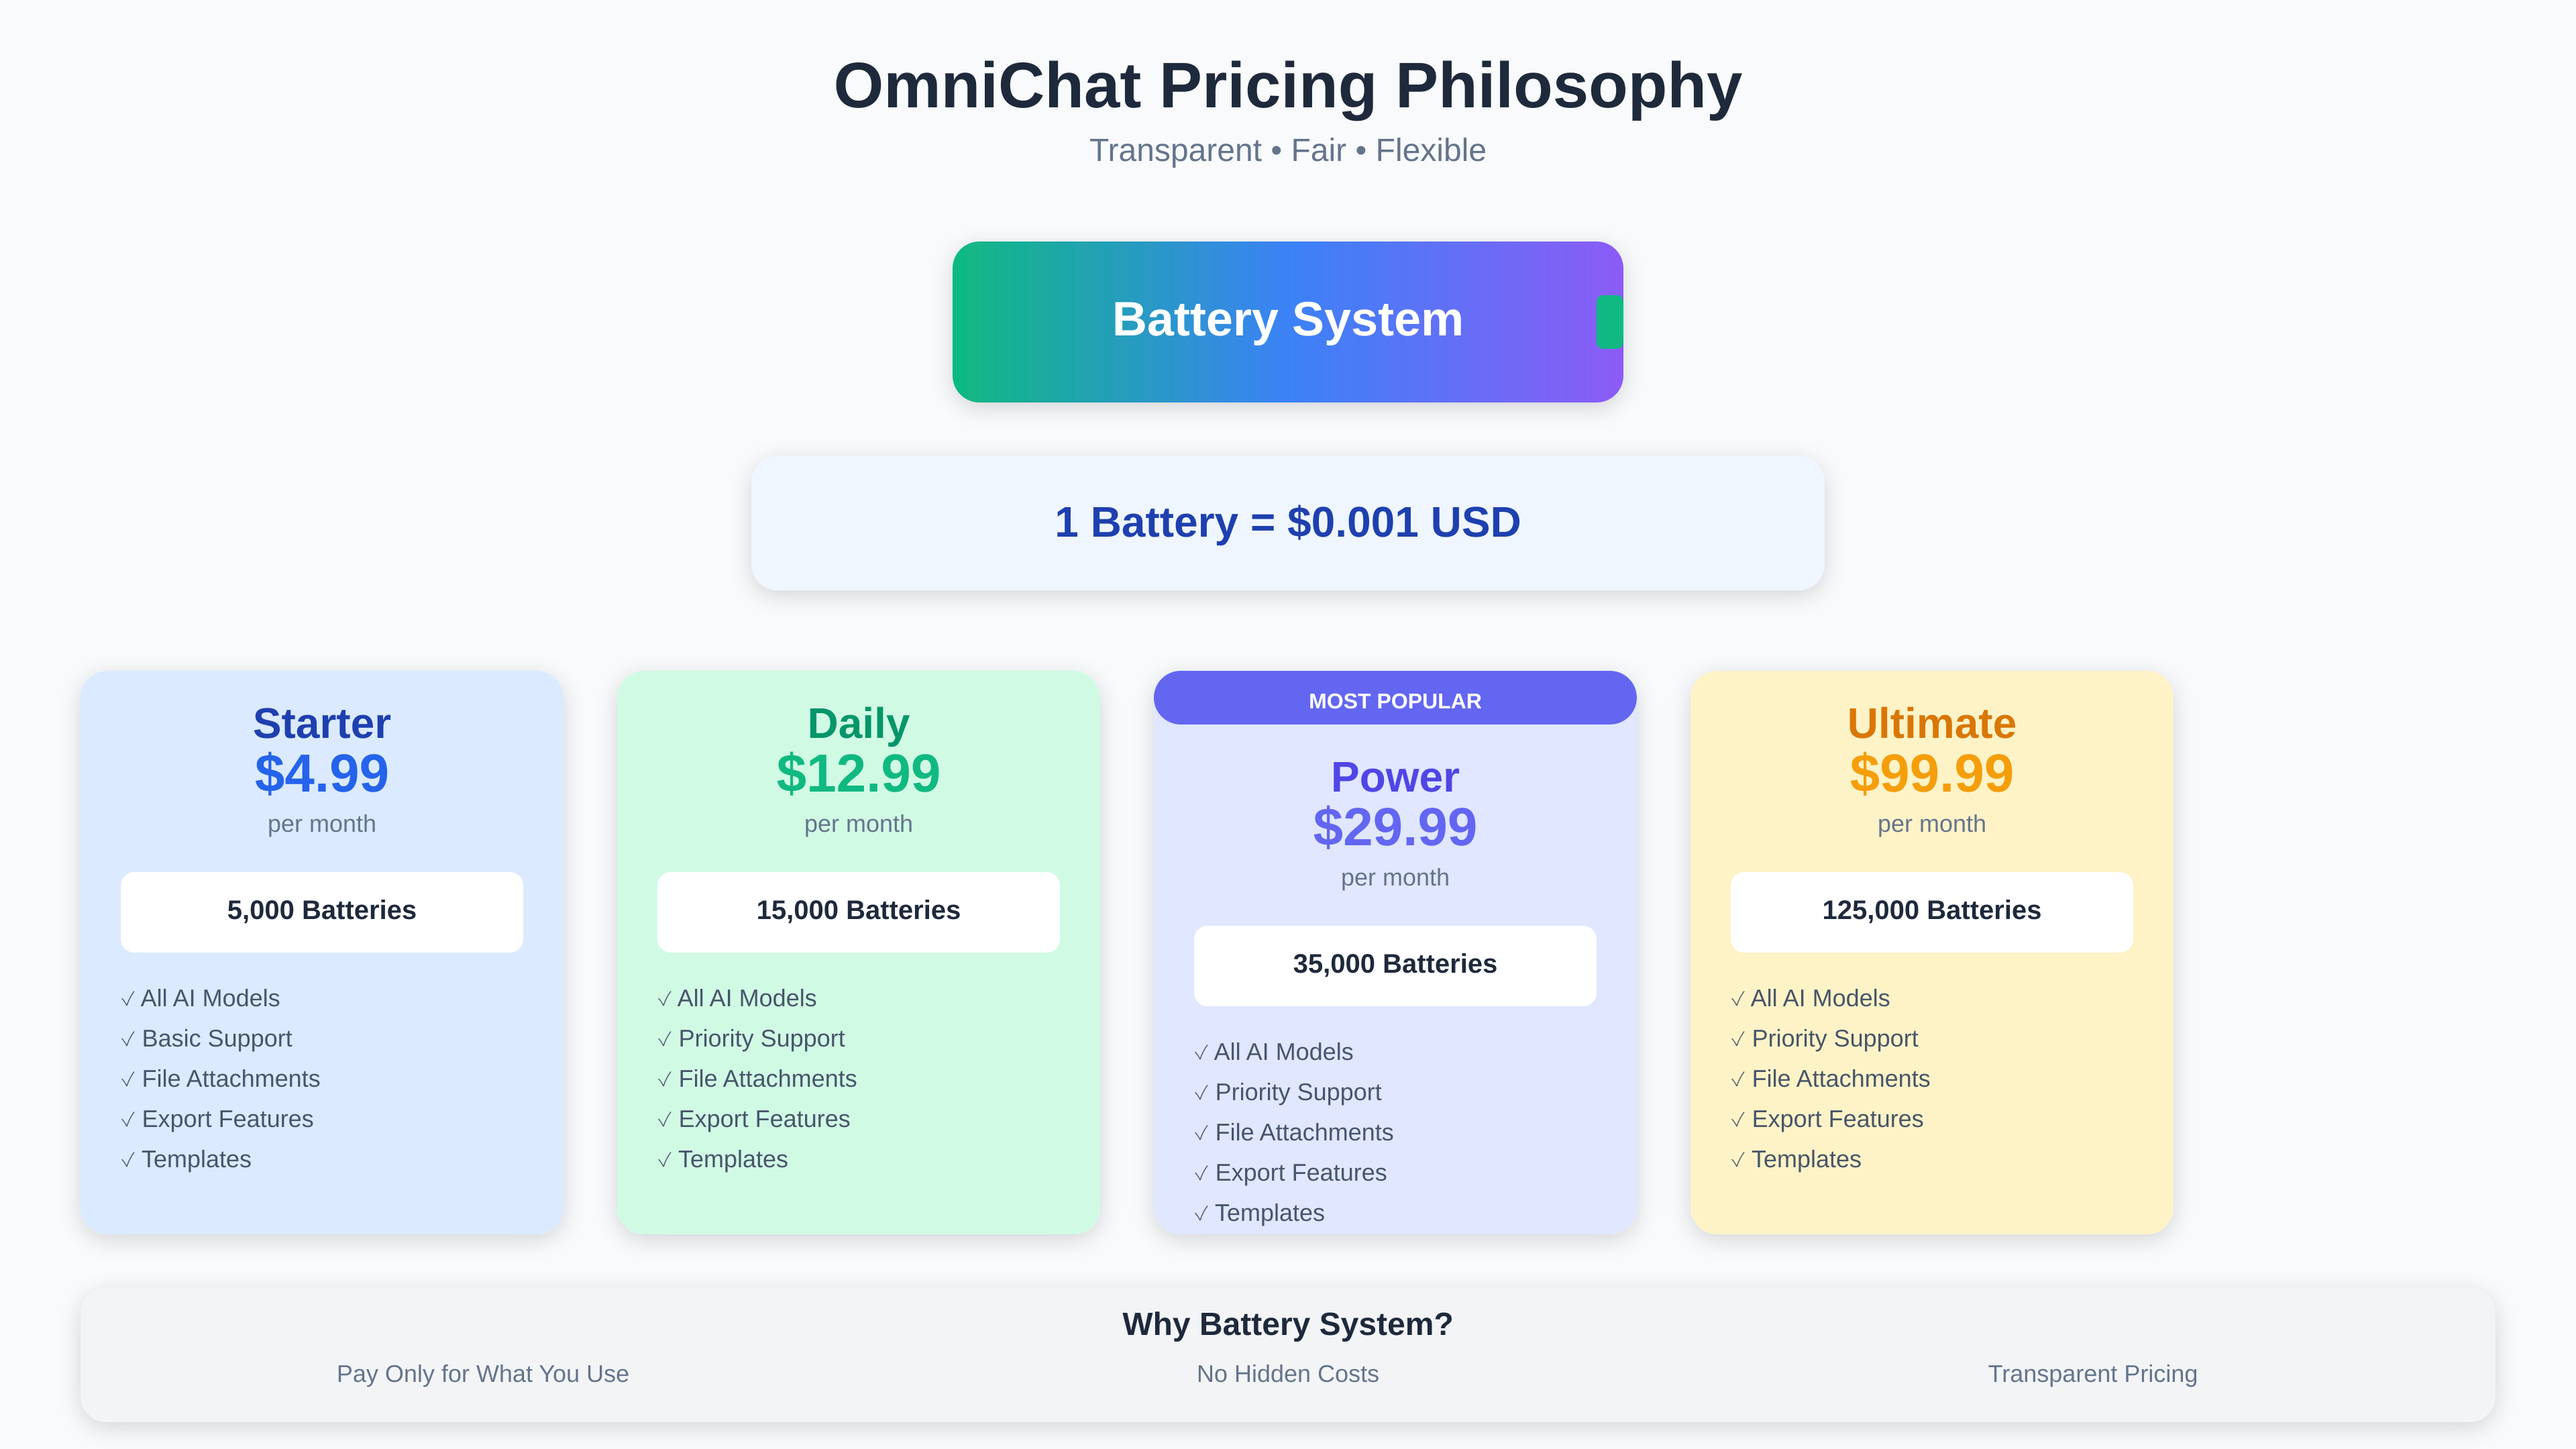
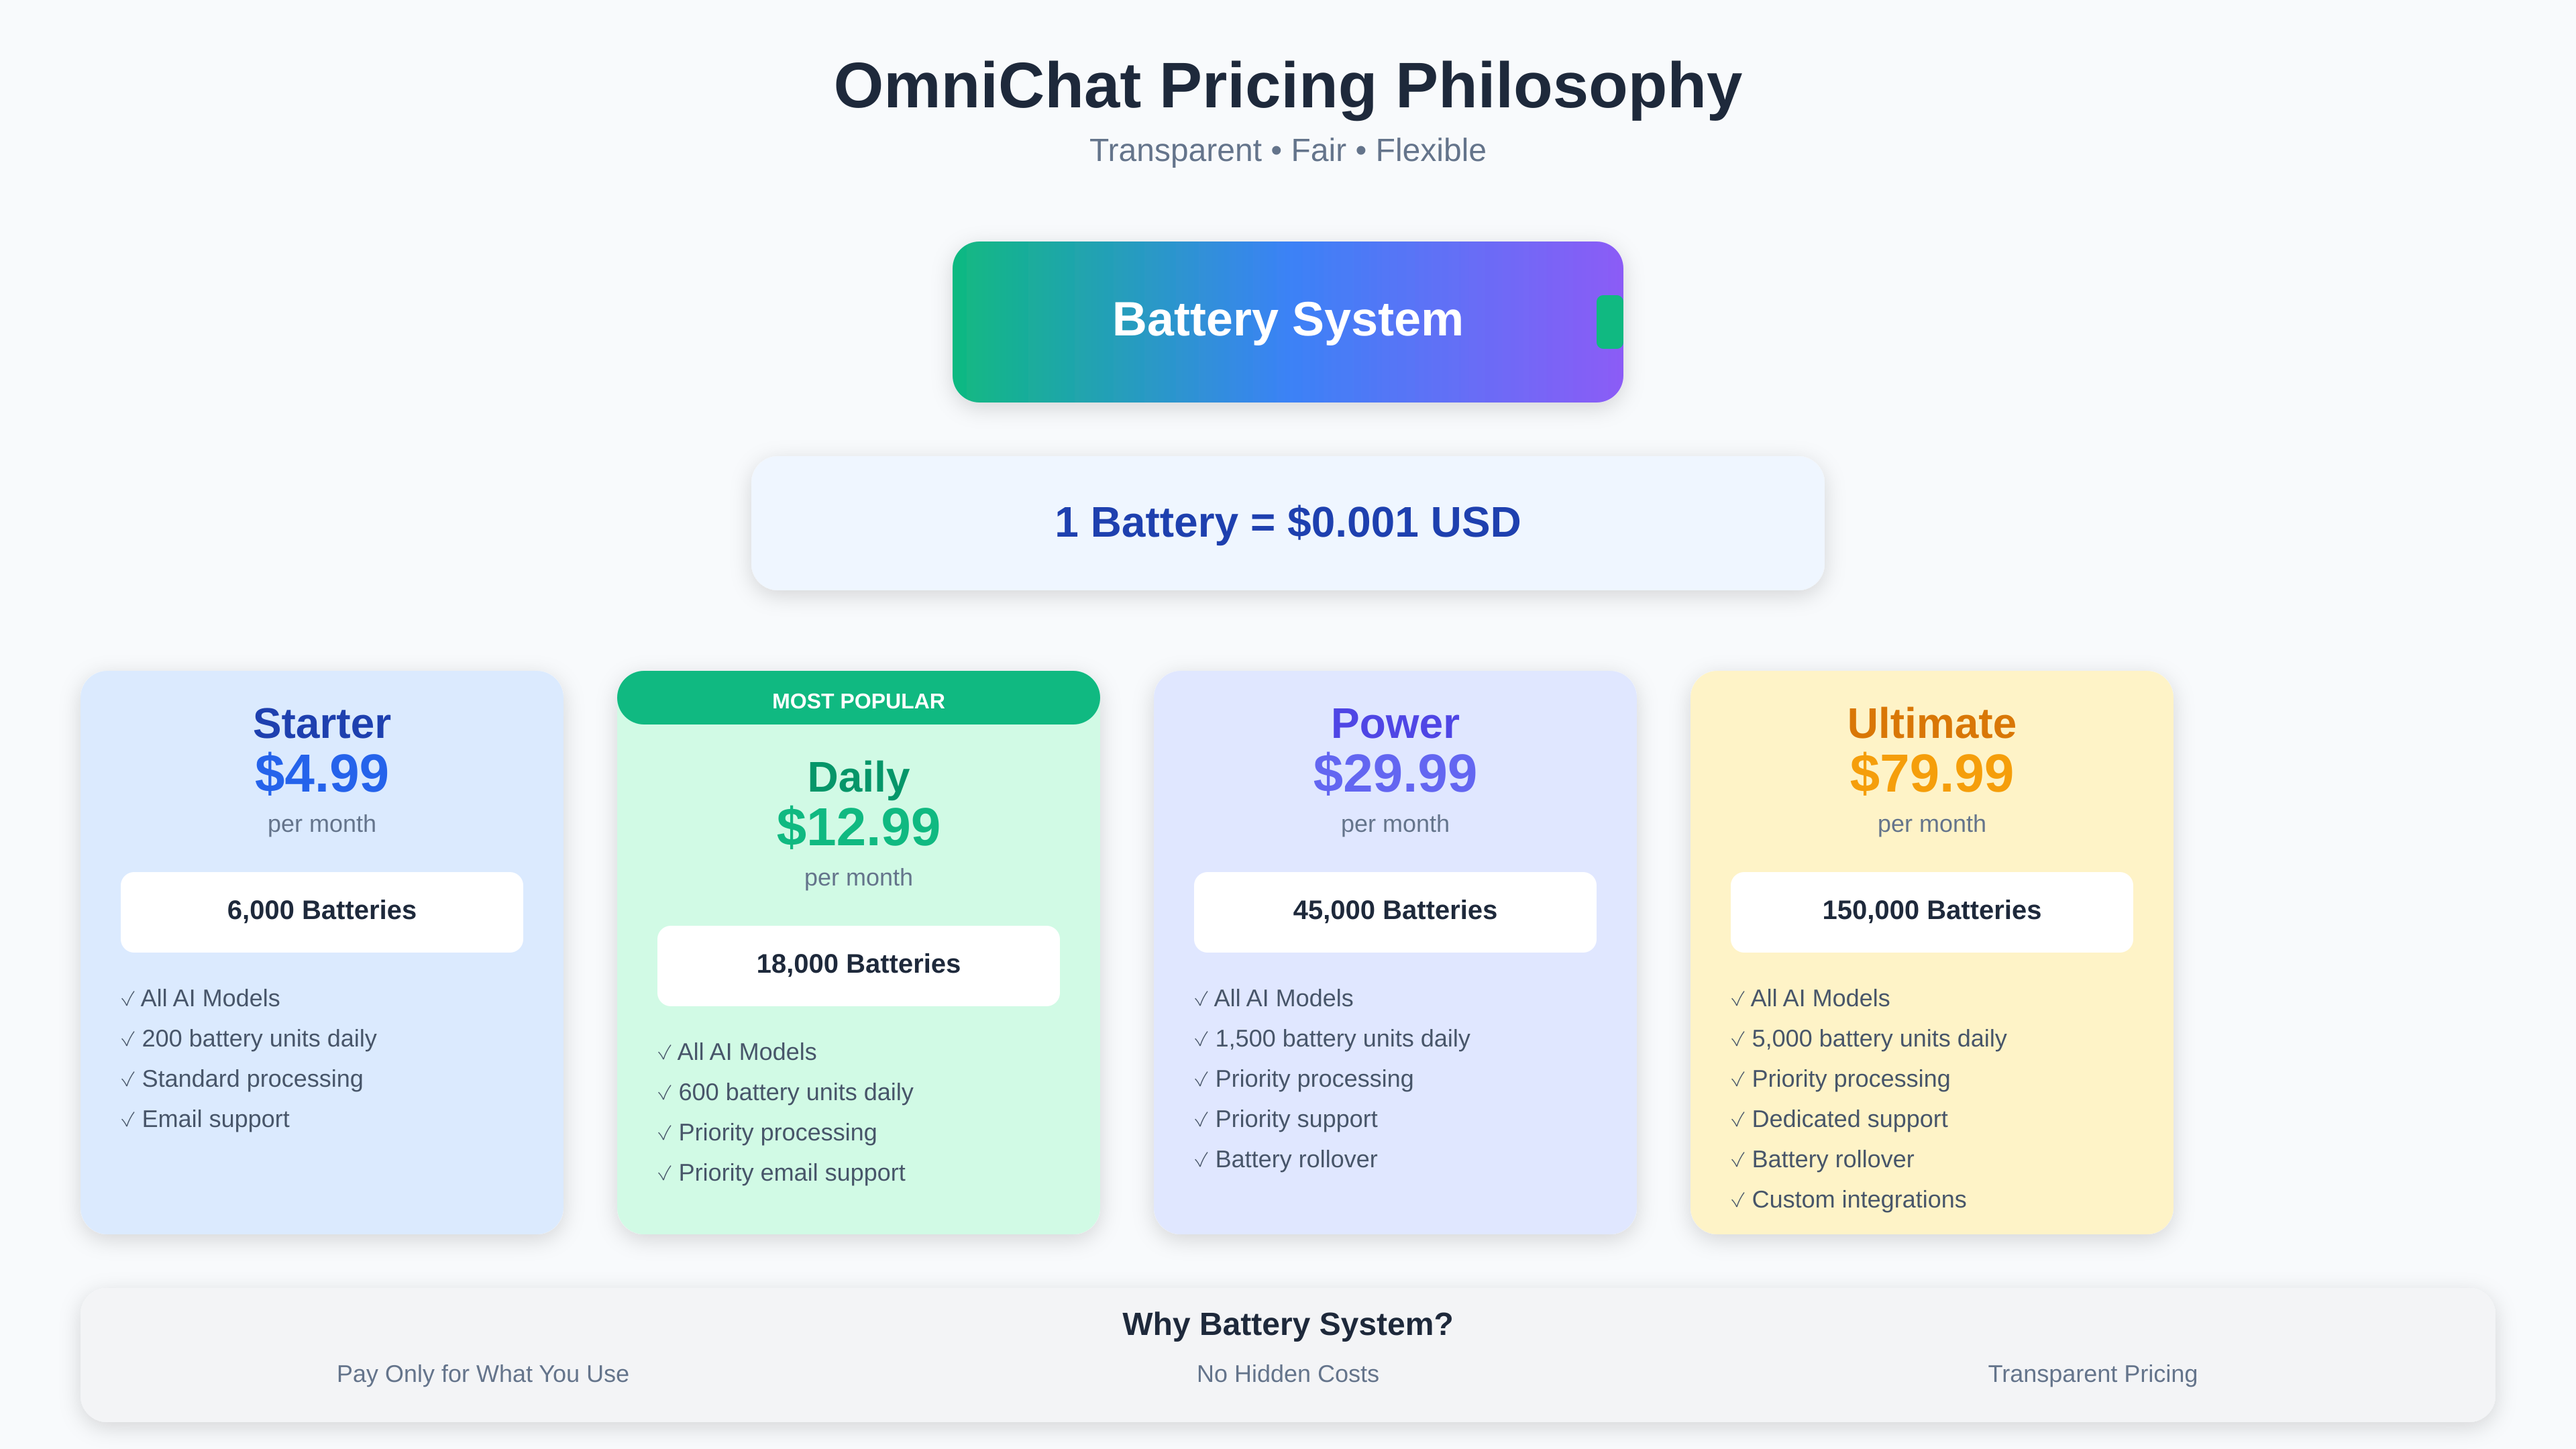
docs: update pricing with correct values and remove live demo section
- Update pricing table with correct battery amounts and daily limits
- Starter: 6,000 batteries (200/day)
- Daily: 18,000 batteries (600/day) - marked as most popular
- Power: 45,000 batteries (1,500/day)
- Ultimate: 150,000 batteries (5,000/day) at $79.99
- Remove Live Demo section from README
- Regenerate pricing-ideology.png with updated values

🤖 Generated with [Claude Code](https://claude.ai/code)

diff --git a/README.md b/README.md
@@ -94,10 +94,6 @@ Our revolutionary pricing model: **1 Battery = $0.001**
 
 ---
 
-## 🎮 Live Demo
-
-Experience OmniChat in action: [**omnichat.app**](https://omnichat.app)
-
 ## 🚀 Quick Start
 
 ### Prerequisites
@@ -176,12 +172,12 @@ npm run dev
 
 <div align="center">
   
-| Plan | Monthly Price | Batteries | Best For |
-|------|--------------|-----------|----------|
-| **Starter** | $4.99 | 5,000 | Personal use, trying out AI |
-| **Daily** | $12.99 | 15,000 | Regular users, students |
-| **Power** ⭐ | $29.99 | 35,000 | Professionals, teams |
-| **Ultimate** | $99.99 | 125,000 | Enterprises, heavy users |
+| Plan | Monthly Price | Batteries | Daily Limit | Best For |
+|------|--------------|-----------|-------------|----------|
+| **Starter** | $4.99 | 6,000 | 200 | Personal use, trying out AI |
+| **Daily** ⭐ | $12.99 | 18,000 | 600 | Regular users, students |
+| **Power** | $29.99 | 45,000 | 1,500 | Professionals, teams |
+| **Ultimate** | $79.99 | 150,000 | 5,000 | Enterprises, heavy users |
 
 </div>
 
